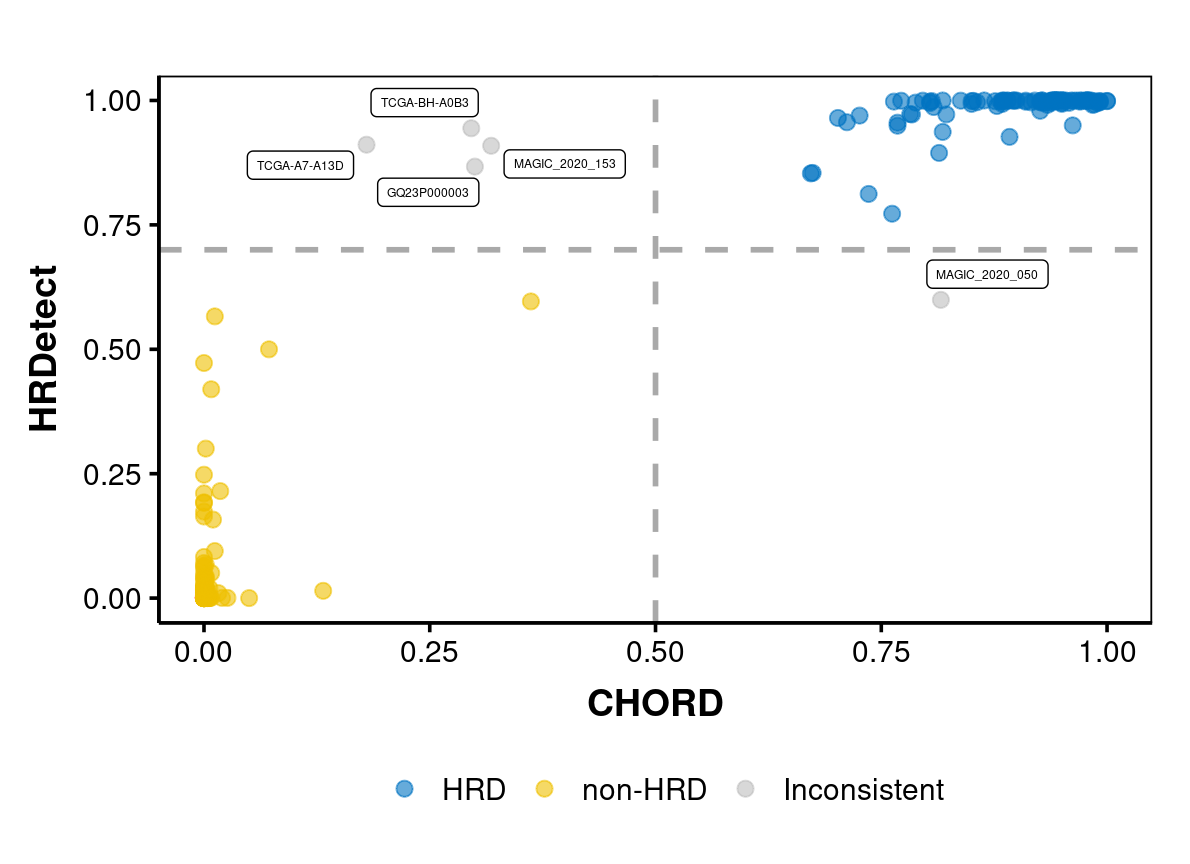
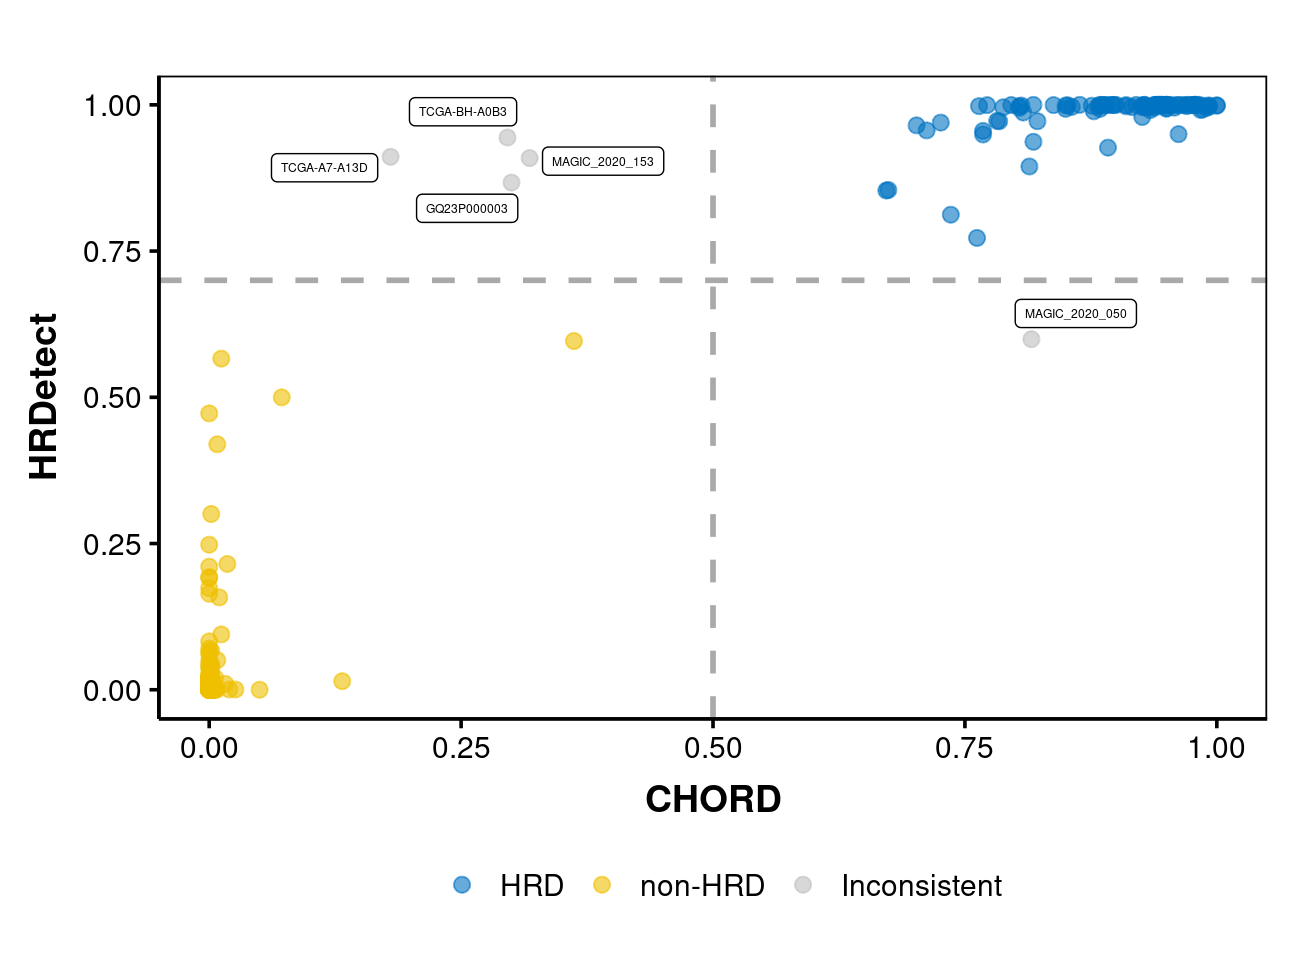
fix hrd prediction comparison

diff --git a/5.hrdprediction_comparison.md b/5.hrdprediction_comparison.md
@@ -12,7 +12,7 @@ Comparison of the HRD prediction from HRDetect and CHORD
 There are five samples had inconsistent HR status perdition from two
 methods.
 
-<img src="figures/hrd_comparison_fig1-1.png" width="595.2" style="display: block; margin: auto;" />
+<img src="figures/hrd_comparison_fig1-1.png" width="652.8" style="display: block; margin: auto;" />
 
 Notably, four out of these five samples were excluded by germline
 classification, and `TCGA-A7-A13D` is classified as brca_negative which
@@ -24,3 +24,5 @@ For samples that are consistently predicted as HRD, CHORD further
 classified them as BRCA1/2 type.
 
 <img src="figures/hrd_comparison_fig3-1.png" width="460.8" style="display: block; margin: auto;" />
+
+<img src="figures/figure1-1.png" width="892.8" style="display: block; margin: auto;" />

diff --git a/README.md b/README.md
@@ -14,7 +14,7 @@ Scripts and R code used in the paper:
 - [HRD prediction using HRDetect](2.hrdetect.md)
 - [HRD prediction using CHORD](3.chord.md)
 - [HRDsum score calculation](4.hrdsum_calculation.md)
-- [HRD precition method comparison](5.hrdpredictioni_comparison.md)
+- [HRD precition method comparison](5.hrdprediction_comparison.md)
 
 ### Germline variants and BRCA1/2 classfication
 
